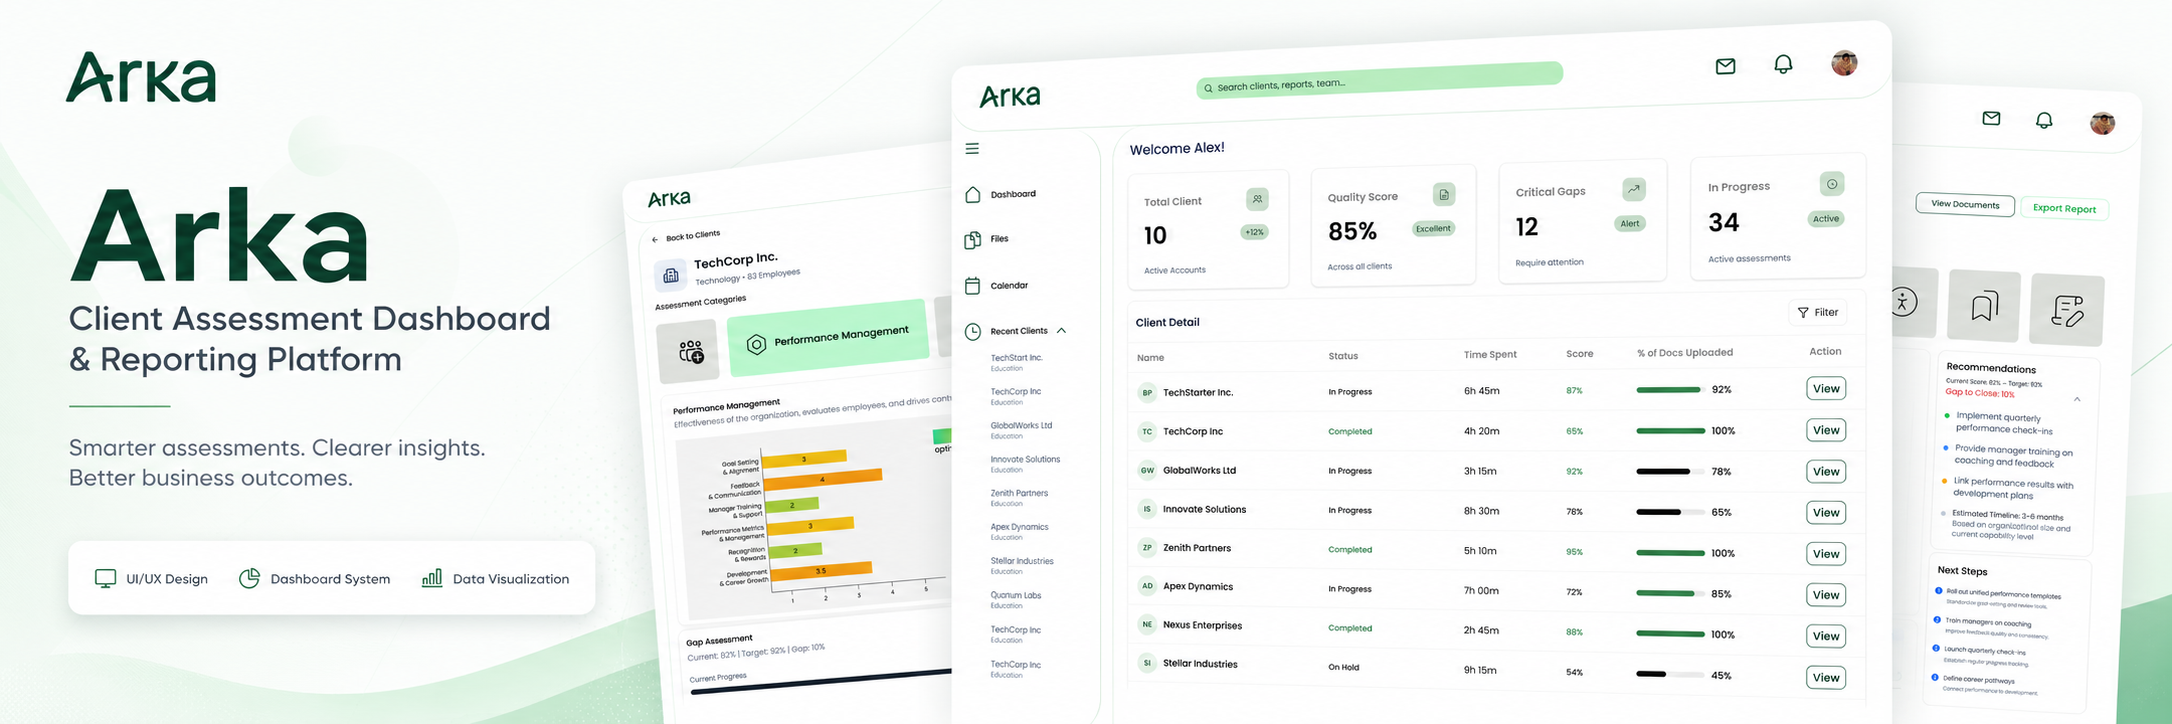
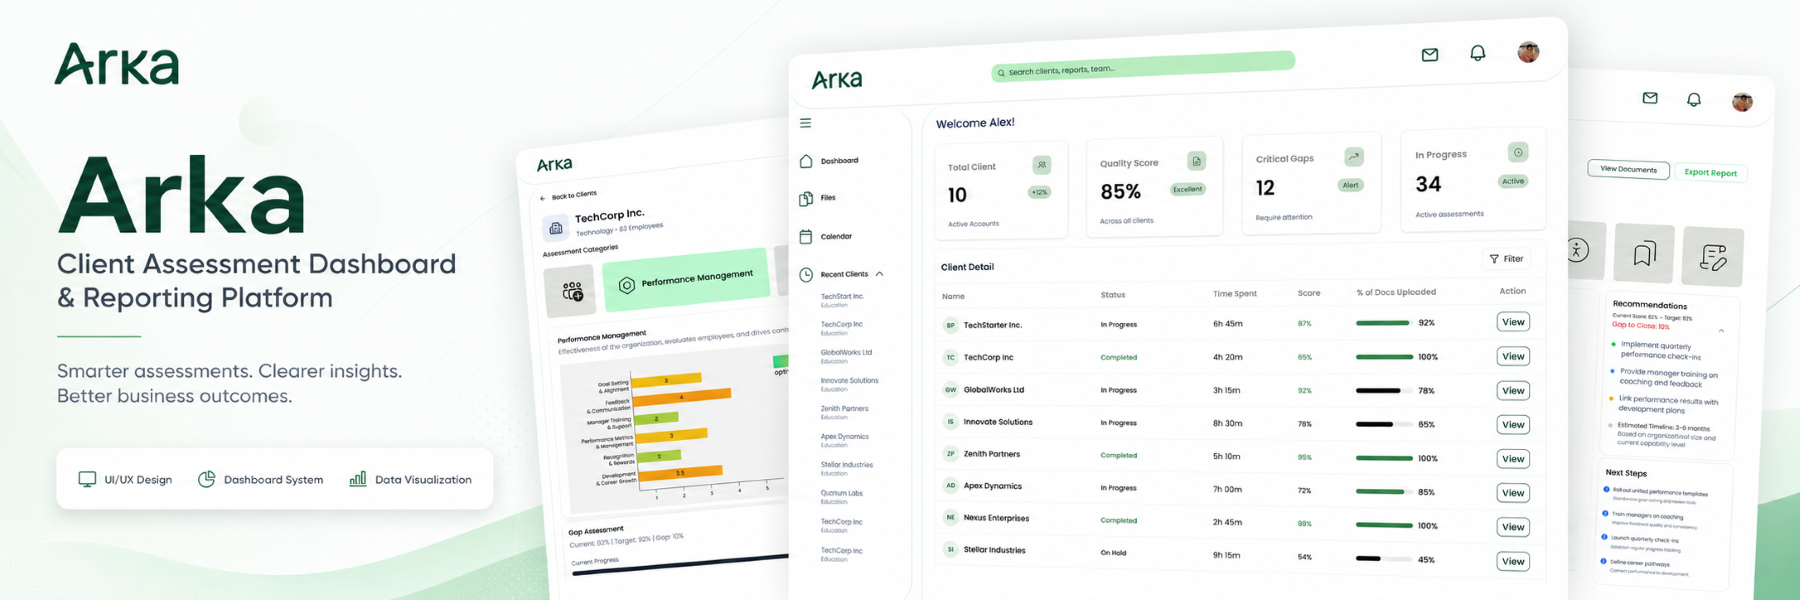
1

diff --git a/arka.html b/arka.html
@@ -260,7 +260,7 @@
 
 <nav class="nav">
   <ul class="nav__links">
-    <li><a href="PORTFOLIO.html" data-en="Home" data-zh="主页">Home</a></li>
+    <li><a href="index.html" data-en="Home" data-zh="主页">Home</a></li>
     <li><a href="works.html" class="active" data-en="Works" data-zh="作品集">Works</a></li>
     <li><a href="experience.html" data-en="Gaming" data-zh="游戏经历">Gaming</a></li>
     <li><a href="resume.html" data-en="Resume" data-zh="简历">Resume</a></li>
@@ -796,7 +796,7 @@
     <nav class="footer__col">
       <h4 data-en="Navigation" data-zh="导航">Navigation</h4>
       <ul>
-        <li><a href="PORTFOLIO.html" data-en="Home" data-zh="主页">Home</a></li>
+        <li><a href="index.html" data-en="Home" data-zh="主页">Home</a></li>
         <li><a href="works.html" data-en="Works" data-zh="作品集">Works</a></li>
         <li><a href="experience.html" data-en="Gaming" data-zh="游戏经历">Gaming</a></li>
         <li><a href="resume.html" data-en="Resume" data-zh="简历">Resume</a></li>

diff --git a/contact.html b/contact.html
@@ -118,7 +118,7 @@
 
 <nav class="nav">
   <ul class="nav__links">
-    <li><a href="PORTFOLIO.html" data-en="Home" data-zh="主页">Home</a></li>
+    <li><a href="index.html" data-en="Home" data-zh="主页">Home</a></li>
     <li><a href="works.html" data-en="Works" data-zh="作品集">Works</a></li>
     <li><a href="experience.html" data-en="Gaming" data-zh="游戏经历">Gaming</a></li>
     <li><a href="resume.html" data-en="Resume" data-zh="简历">Resume</a></li>
@@ -228,7 +228,7 @@
     <nav class="footer__col">
       <h4 data-en="Navigation" data-zh="导航">Navigation</h4>
       <ul>
-        <li><a href="PORTFOLIO.html" data-en="Home" data-zh="主页">Home</a></li>
+        <li><a href="index.html" data-en="Home" data-zh="主页">Home</a></li>
         <li><a href="works.html" data-en="Works" data-zh="作品集">Works</a></li>
         <li><a href="experience.html" data-en="Gaming" data-zh="游戏经历">Gaming</a></li>
         <li><a href="resume.html" data-en="Resume" data-zh="简历">Resume</a></li>

diff --git a/experience.html b/experience.html
@@ -156,7 +156,7 @@
 
 <nav class="nav">
   <ul class="nav__links">
-    <li><a href="PORTFOLIO.html" data-en="Home" data-zh="主页">Home</a></li>
+    <li><a href="index.html" data-en="Home" data-zh="主页">Home</a></li>
     <li><a href="works.html" data-en="Works" data-zh="作品集">Works</a></li>
     <li><a href="experience.html" class="active" data-en="Gaming" data-zh="游戏经历">Gaming</a></li>
     <li><a href="resume.html" data-en="Resume" data-zh="简历">Resume</a></li>
@@ -334,7 +334,7 @@
     <nav class="footer__col">
       <h4 data-en="Navigation" data-zh="导航">Navigation</h4>
       <ul>
-        <li><a href="PORTFOLIO.html" data-en="Home" data-zh="主页">Home</a></li>
+        <li><a href="index.html" data-en="Home" data-zh="主页">Home</a></li>
         <li><a href="works.html" data-en="Works" data-zh="作品集">Works</a></li>
         <li><a href="experience.html" data-en="Gaming" data-zh="游戏经历">Gaming</a></li>
         <li><a href="resume.html" data-en="Resume" data-zh="简历">Resume</a></li>

diff --git a/managing-up.html b/managing-up.html
@@ -539,7 +539,7 @@
 
 <nav class="nav">
   <ul class="nav__links">
-    <li><a href="PORTFOLIO.html" data-en="Home" data-zh="主页">Home</a></li>
+    <li><a href="index.html" data-en="Home" data-zh="主页">Home</a></li>
     <li><a href="works.html" class="active" data-en="Works" data-zh="作品集">Works</a></li>
     <li><a href="experience.html" data-en="Gaming" data-zh="游戏经历">Gaming</a></li>
     <li><a href="resume.html" data-en="Resume" data-zh="简历">Resume</a></li>
@@ -1572,7 +1572,7 @@
     <nav class="footer__col">
       <h4 data-en="Navigation" data-zh="导航">Navigation</h4>
       <ul>
-        <li><a href="PORTFOLIO.html" data-en="Home" data-zh="主页">Home</a></li>
+        <li><a href="index.html" data-en="Home" data-zh="主页">Home</a></li>
         <li><a href="works.html" data-en="Works" data-zh="作品集">Works</a></li>
         <li><a href="experience.html" data-en="Gaming" data-zh="游戏经历">Gaming</a></li>
         <li><a href="resume.html" data-en="Resume" data-zh="简历">Resume</a></li>

diff --git a/quiet-town.html b/quiet-town.html
@@ -482,7 +482,7 @@
 
 <nav class="nav">
   <ul class="nav__links">
-    <li><a href="PORTFOLIO.html" data-en="Home" data-zh="主页">Home</a></li>
+    <li><a href="index.html" data-en="Home" data-zh="主页">Home</a></li>
     <li><a href="works.html" class="active" data-en="Works" data-zh="作品集">Works</a></li>
     <li><a href="experience.html" data-en="Gaming" data-zh="游戏经历">Gaming</a></li>
     <li><a href="resume.html" data-en="Resume" data-zh="简历">Resume</a></li>
@@ -943,7 +943,7 @@
     <nav class="footer__col">
       <h4 data-en="Navigation" data-zh="导航">Navigation</h4>
       <ul>
-        <li><a href="PORTFOLIO.html" data-en="Home" data-zh="主页">Home</a></li>
+        <li><a href="index.html" data-en="Home" data-zh="主页">Home</a></li>
         <li><a href="works.html" data-en="Works" data-zh="作品集">Works</a></li>
         <li><a href="experience.html" data-en="Gaming" data-zh="游戏经历">Gaming</a></li>
         <li><a href="resume.html" data-en="Resume" data-zh="简历">Resume</a></li>

diff --git a/resume.html b/resume.html
@@ -89,7 +89,7 @@
 
 <nav class="nav">
   <ul class="nav__links">
-    <li><a href="PORTFOLIO.html" data-en="Home" data-zh="主页">Home</a></li>
+    <li><a href="index.html" data-en="Home" data-zh="主页">Home</a></li>
     <li><a href="works.html" data-en="Works" data-zh="作品集">Works</a></li>
     <li><a href="experience.html" data-en="Gaming" data-zh="游戏经历">Gaming</a></li>
     <li><a href="resume.html" class="active" data-en="Resume" data-zh="简历">Resume</a></li>
@@ -217,7 +217,7 @@
   <nav class="footer__col">
     <h4 data-en="Navigation" data-zh="导航">Navigation</h4>
     <ul>
-      <li><a href="PORTFOLIO.html" data-en="Home" data-zh="主页">Home</a></li>
+      <li><a href="index.html" data-en="Home" data-zh="主页">Home</a></li>
       <li><a href="works.html" data-en="Works" data-zh="作品集">Works</a></li>
       <li><a href="experience.html" data-en="Gaming" data-zh="游戏经历">Gaming</a></li>
       <li><a href="resume.html" data-en="Resume" data-zh="简历">Resume</a></li>

diff --git a/the-ancestors-sight.html b/the-ancestors-sight.html
@@ -449,7 +449,7 @@
 
 <nav class="nav">
   <ul class="nav__links">
-    <li><a href="PORTFOLIO.html" data-en="Home" data-zh="主页">Home</a></li>
+    <li><a href="index.html" data-en="Home" data-zh="主页">Home</a></li>
     <li><a href="works.html" class="active" data-en="Works" data-zh="作品集">Works</a></li>
     <li><a href="experience.html" data-en="Gaming" data-zh="游戏经历">Gaming</a></li>
     <li><a href="resume.html" data-en="Resume" data-zh="简历">Resume</a></li>
@@ -1178,7 +1178,7 @@
     <nav class="footer__col">
       <h4 data-en="Navigation" data-zh="导航">Navigation</h4>
       <ul>
-        <li><a href="PORTFOLIO.html" data-en="Home" data-zh="主页">Home</a></li>
+        <li><a href="index.html" data-en="Home" data-zh="主页">Home</a></li>
         <li><a href="works.html" data-en="Works" data-zh="作品集">Works</a></li>
         <li><a href="experience.html" data-en="Gaming" data-zh="游戏经历">Gaming</a></li>
         <li><a href="resume.html" data-en="Resume" data-zh="简历">Resume</a></li>

diff --git a/works.html b/works.html
@@ -99,7 +99,7 @@
 
 <nav class="nav">
   <ul class="nav__links">
-    <li><a href="PORTFOLIO.html" data-en="Home" data-zh="主页">Home</a></li>
+    <li><a href="index.html" data-en="Home" data-zh="主页">Home</a></li>
     <li><a href="works.html" class="active" data-en="Works" data-zh="作品集">Works</a></li>
     <li><a href="experience.html" data-en="Gaming" data-zh="游戏经历">Gaming</a></li>
     <li><a href="resume.html" data-en="Resume" data-zh="简历">Resume</a></li>
@@ -206,7 +206,7 @@
     <nav class="footer__col">
       <h4 data-en="Navigation" data-zh="导航">Navigation</h4>
       <ul>
-        <li><a href="PORTFOLIO.html" data-en="Home" data-zh="主页">Home</a></li>
+        <li><a href="index.html" data-en="Home" data-zh="主页">Home</a></li>
         <li><a href="works.html" data-en="Works" data-zh="作品集">Works</a></li>
         <li><a href="experience.html" data-en="Gaming" data-zh="游戏经历">Gaming</a></li>
         <li><a href="resume.html" data-en="Resume" data-zh="简历">Resume</a></li>